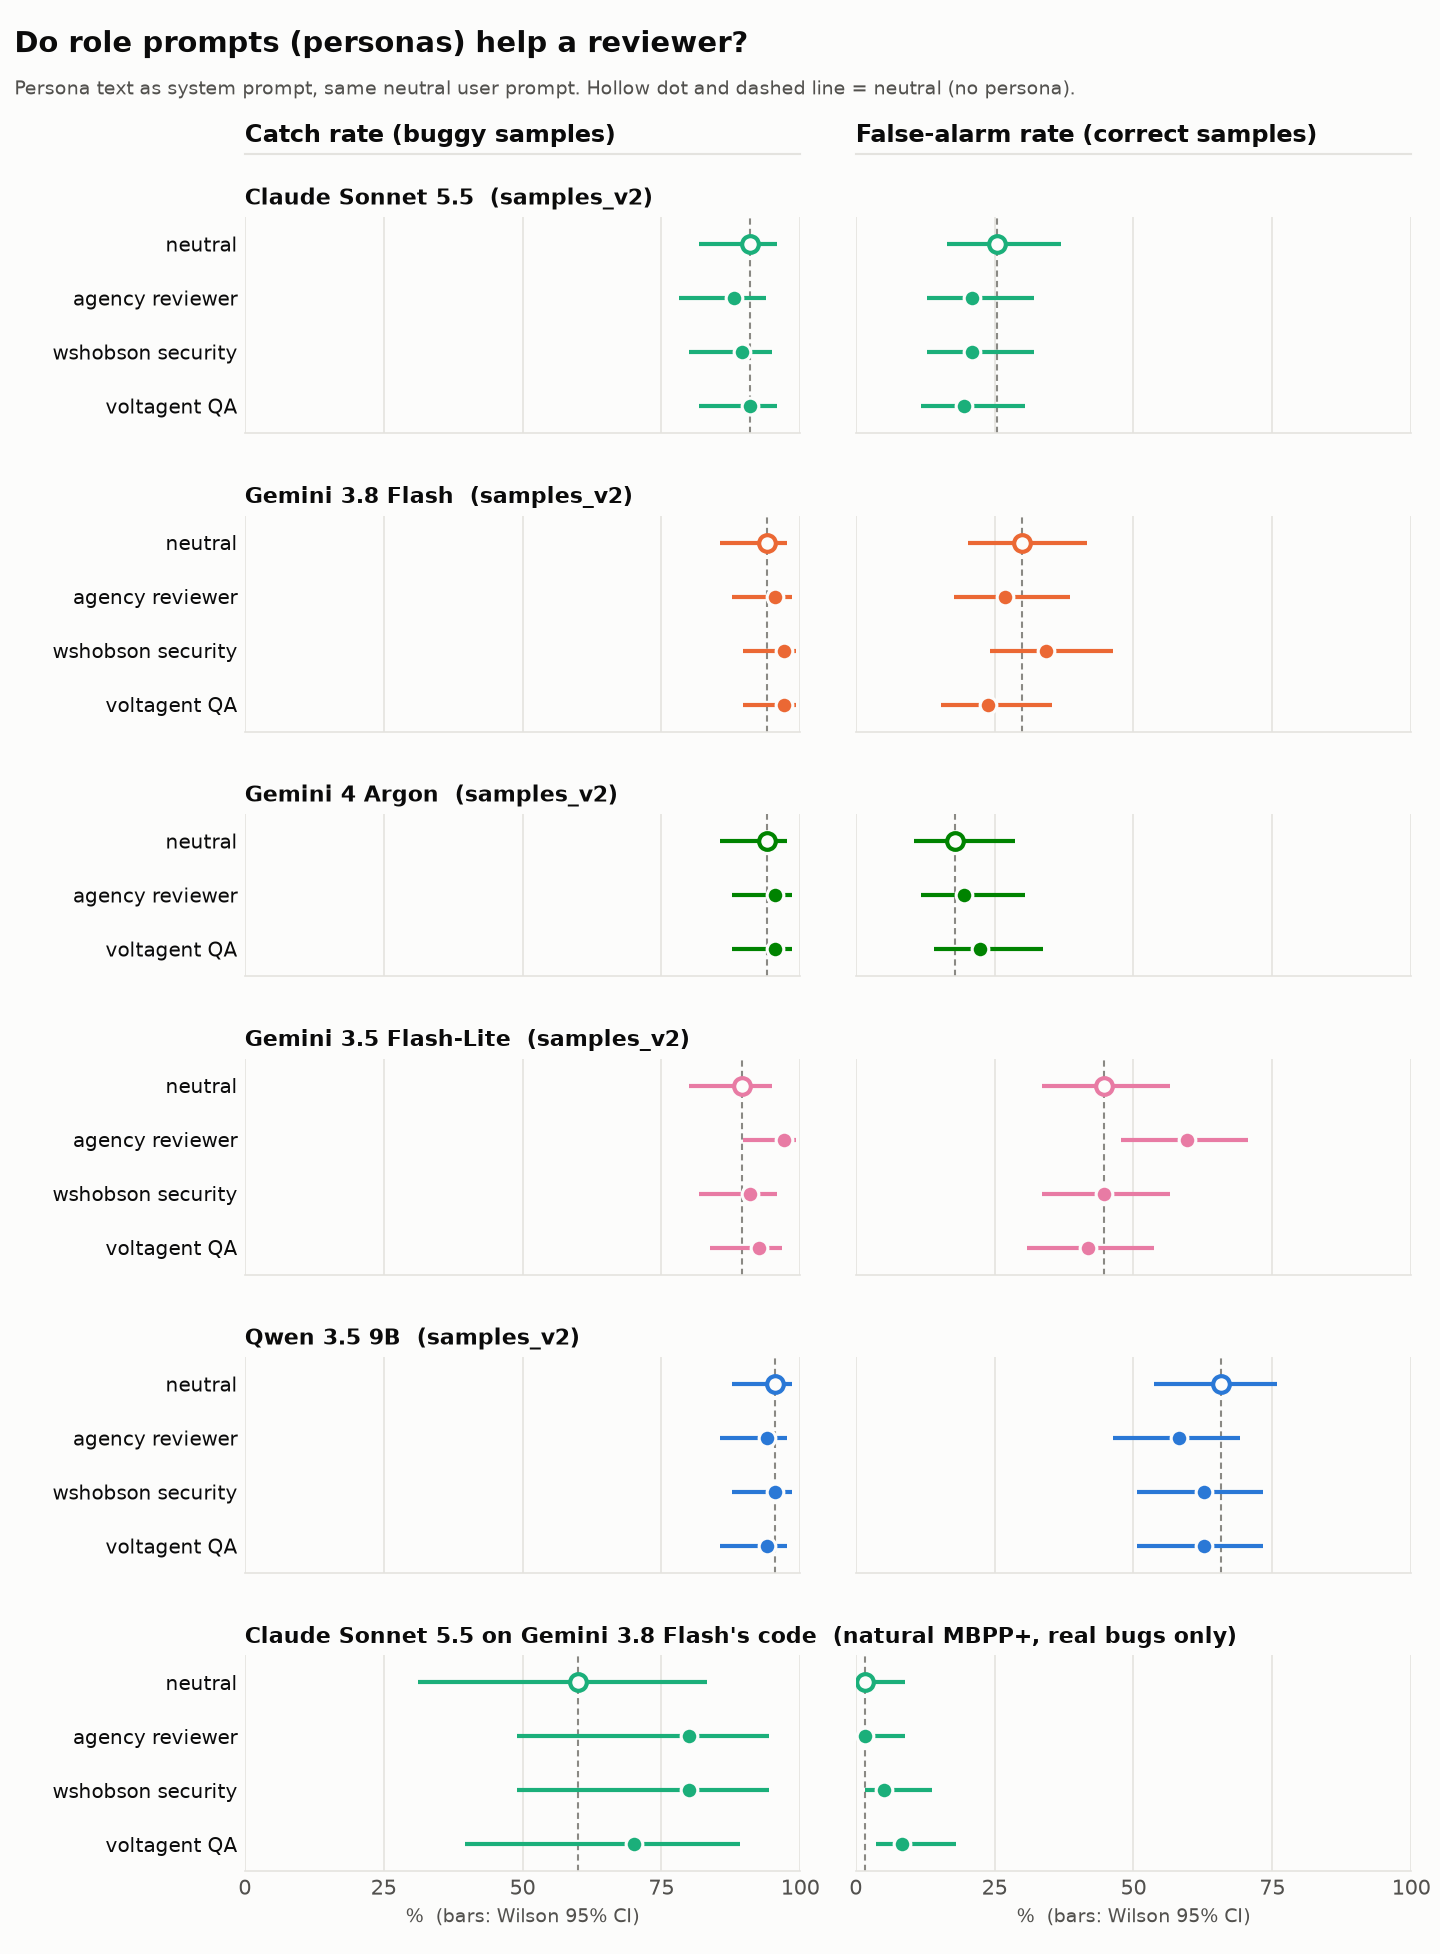
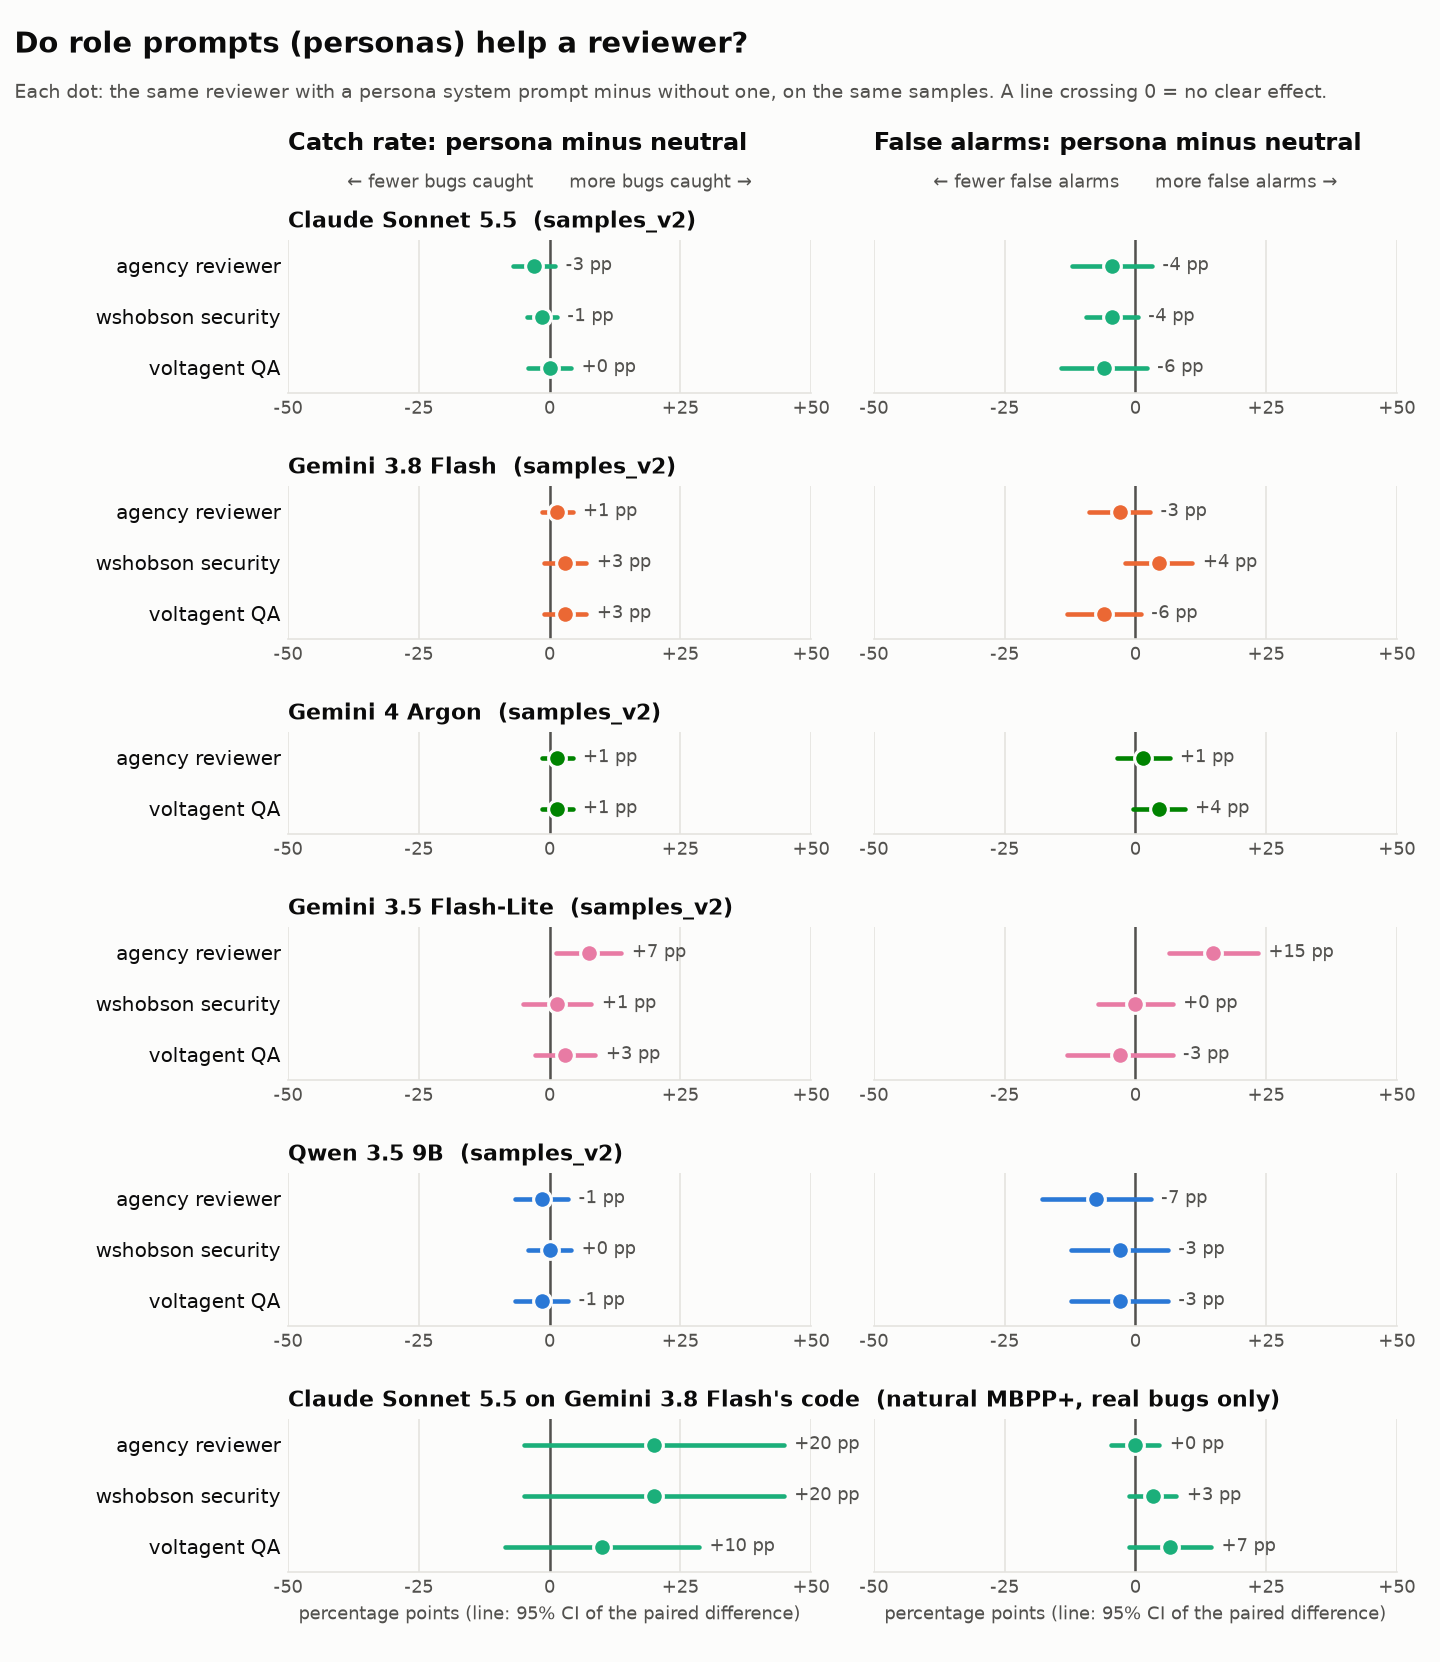
Figures: persona effect as paired difference, dedicated samples_v3 figure, tighter writer matrix

diff --git a/reviewbench/figures.py b/reviewbench/figures.py
@@ -1,4 +1,4 @@
-"""README figures: the writer x reviewer matrix and the persona effect.
+"""README figures: the writer x reviewer matrix, the persona effect and the samples_v3 rates.
 
 Every number comes from logged calls in results/ plus the manual right-reason
 counts in docs/right_reason_counts.json. Missing runs or rows are left out of
@@ -16,7 +16,7 @@ from matplotlib.patches import Patch  # noqa: E402
 
 from reviewbench.config import ROOT  # noqa: E402
 from reviewbench.report import GRID, INK, INK_2, SURFACE, _style, reviewer_color  # noqa: E402
-from reviewbench.scoring import Rate, catch_rate, false_alarm_rate  # noqa: E402
+from reviewbench.scoring import Rate, catch_rate, false_alarm_rate, paired_counts, paired_difference  # noqa: E402
 
 REVIEWERS = ["claude", "gemini", "gemini-argon", "gemini-lite", "ollama"]
 REVIEWER_LABEL = {
@@ -83,8 +83,8 @@ def _yticks(ax, labels: list[str], bold: list[bool]) -> None:
 
 def plot_writer_reviewer(path: Path) -> dict:
     counts = json.loads((ROOT / "docs" / "right_reason_counts.json").read_text(encoding="utf-8"))
-    fig, axes = plt.subplots(2, 2, figsize=(9.6, 7.4), facecolor=SURFACE,
-                             gridspec_kw={"width_ratios": [3.6, 1.6], "hspace": 0.55, "wspace": 0.06})
+    fig, axes = plt.subplots(2, 2, figsize=(9.6, 6.9), facecolor=SURFACE,
+                             gridspec_kw={"width_ratios": [3.6, 1.6], "hspace": 0.42, "wspace": 0.06})
     plotted = {}
     for row, (wkey, wlabel, run, adj_file, real_class) in enumerate(WRITERS):
         calls = load_run(run)
@@ -134,8 +134,9 @@ def plot_writer_reviewer(path: Path) -> dict:
         ax_bug.set_xlim(0, 13.2)  # room for the bar labels; the axis itself stops at 10
         ax_bug.set_xticks(range(0, 11, 2))
         ax_bug.spines["bottom"].set_bounds(0, 10)
-        ax_fa.set_xlim(0, 100)
+        ax_fa.set_xlim(-5, 100)  # a 0% dot is drawn whole, not cut by the axis
         ax_fa.set_xticks([0, 25, 50, 75, 100])
+        ax_fa.spines["bottom"].set_bounds(0, 100)
         ax_bug.set_title(f"Code written by {wlabel}", color=INK, fontsize=11, loc="left", fontweight="bold")
         ax_bug.set_xlabel(f"real bugs flagged (of {n_real or 10})", color=INK_2, fontsize=9)
         ax_fa.set_title(f"False alarms ({n_correct} correct)", color=INK, fontsize=10,
@@ -150,7 +151,7 @@ def plot_writer_reviewer(path: Path) -> dict:
                  fontsize=14, fontweight="bold")
     fig.text(0.01, 0.945, "Natural bugs in MBPP+ solutions, neutral prompt. Real bugs = manually adjudicated "
              "test failures. Shaded row = the reviewer is the writer's model.", color=INK_2, fontsize=9)
-    fig.subplots_adjust(left=0.19, right=0.98, top=0.85, bottom=0.07)
+    fig.subplots_adjust(left=0.19, right=0.98, top=0.84, bottom=0.075)
     fig.savefig(path, dpi=150, facecolor=SURFACE)
     plt.close(fig)
     return plotted
@@ -188,52 +189,118 @@ def _persona_panels() -> list[tuple[str, str, dict[str, list[dict]]]]:
 
 
 def plot_persona_effect(path: Path) -> dict:
-    panels = _persona_panels()
-    ratios = [len(v) for _, _, v in panels]
-    top, bottom, gap, row_h = 1.45, 0.55, 0.55, 0.36  # inches
-    height = top + bottom + row_h * sum(ratios) + gap * (len(panels) - 1)
-    fig, axes = plt.subplots(len(panels), 2, figsize=(9.6, height), facecolor=SURFACE, sharex="col",
-                             squeeze=False, gridspec_kw={"height_ratios": ratios, "wspace": 0.1,
-                                                         "hspace": gap / (row_h * sum(ratios) / len(panels))})
-    fig.subplots_adjust(left=0.17, right=0.98, top=1 - top / height, bottom=bottom / height)
-    plotted = {}
+    """Persona minus neutral, in percentage points, on the same samples (paired difference, 95% CI)."""
+    panels = [(t, r, v) for t, r, v in _persona_panels() if "neutral" in v and len(v) > 1]
     label = dict(VARIANTS)
-    for row, (title, rev, variants) in enumerate(panels):
+    rows = []  # (panel index, reviewer, persona, {metric: (diff, lo, hi, b, c)})
+    for i, (title, rev, variants) in enumerate(panels):
+        for prompt in variants:
+            if prompt == "neutral":
+                continue
+            stats = {}
+            for metric, buggy in (("catch", True), ("false_alarm", False)):
+                n, b, c = paired_counts(variants["neutral"], variants[prompt], buggy)
+                stats[metric] = (*paired_difference(n, b, c), b, c)
+            rows.append((i, rev, prompt, stats))
+    span = max(abs(v) for *_, st in rows for m in st.values() for v in m[:3]) * 100
+    lim = 25 if span < 22 else 50  # wider intervals are cut at the axis edge
+    counts = [sum(1 for r in rows if r[0] == i) for i in range(len(panels))]
+    top, bottom, gap, row_h = 1.6, 0.6, 0.62, 0.34  # inches
+    height = top + bottom + row_h * sum(counts) + gap * (len(panels) - 1)
+    fig, axes = plt.subplots(len(panels), 2, figsize=(9.6, height), facecolor=SURFACE, squeeze=False,
+                             gridspec_kw={"height_ratios": counts, "wspace": 0.12,
+                                          "hspace": gap / (row_h * sum(counts) / len(panels))})
+    fig.subplots_adjust(left=0.2, right=0.97, top=1 - top / height, bottom=bottom / height)
+    plotted = {}
+    for i, (title, rev, variants) in enumerate(panels):
+        mine = [r for r in rows if r[0] == i]
         color = reviewer_color(rev)
-        names = list(variants)
-        for col, metric in enumerate((catch_rate, false_alarm_rate)):
-            ax = axes[row][col]
+        for col, metric in enumerate(("catch", "false_alarm")):
+            ax = axes[i][col]
             _style(ax)
-            base = metric(variants["neutral"]) if "neutral" in variants else None
-            if base and base.n:
-                ax.axvline(base.value * 100, color=MUTED, linewidth=1, linestyle=(0, (3, 2)), zorder=1)
-            for y, prompt in enumerate(names):
-                rate = metric(variants[prompt])
-                if not rate.n:
-                    continue
-                neutral = prompt == "neutral"
-                ax.errorbar(rate.value * 100, y, xerr=_ci_err(rate), fmt="o", color=color, markersize=8,
-                            elinewidth=2, capsize=0, zorder=3, markeredgewidth=2 if neutral else 1.5,
-                            markerfacecolor=SURFACE if neutral else color,
-                            markeredgecolor=color if neutral else SURFACE)
-                plotted.setdefault((title, prompt), {})[metric.__name__] = f"{rate.k}/{rate.n}"
-            ax.set_ylim(len(names) - 0.5, -0.5)
-            ax.set_xlim(0, 100)
-            ax.set_xticks([0, 25, 50, 75, 100])
+            ax.axvline(0, color=INK_2, linewidth=1.2, zorder=1)
+            for y, (_, _, prompt, st) in enumerate(mine):
+                diff, lo, hi, b, c = st[metric]
+                lo, hi = max(lo, -lim / 100), min(hi, lim / 100)
+                ax.plot([lo * 100, hi * 100], [y, y], color=color, linewidth=2.2, solid_capstyle="round",
+                        zorder=2)
+                ax.plot(diff * 100, y, "o", color=color, markersize=8.5, markeredgecolor=SURFACE,
+                        markeredgewidth=1.5, zorder=3)
+                ax.text(hi * 100 + lim * 0.04, y, f"{diff * 100:+.0f} pp", va="center", ha="left",
+                        color=INK_2, fontsize=8.5)
+                plotted[(title, prompt, metric)] = f"+{c} / -{b}"
+            ax.set_ylim(len(mine) - 0.5, -0.5)
+            ax.set_xlim(-lim, lim)
+            ticks = [-lim, -lim // 2, 0, lim // 2, lim]
+            ax.set_xticks(ticks, [f"{t:+d}" if t else "0" for t in ticks])
+            ax.tick_params(labelsize=8.5)
             if col == 0:
-                ax.set_yticks(range(len(names)), [label[p] for p in names], color=INK, fontsize=9.5)
+                ax.set_yticks(range(len(mine)), [label[r[2]] for r in mine], color=INK, fontsize=9.5)
                 ax.set_title(title, color=INK, fontsize=10.5, loc="left", fontweight="bold")
             else:
-                ax.set_yticks(range(len(names)), [""] * len(names))
-    for col, head in enumerate(("Catch rate (buggy samples)", "False-alarm rate (correct samples)")):
+                ax.set_yticks(range(len(mine)), [""] * len(mine))
+    heads = (("Catch rate: persona minus neutral", "← fewer bugs caught      more bugs caught →"),
+             ("False alarms: persona minus neutral", "← fewer false alarms      more false alarms →"))
+    for col, (head, hint) in enumerate(heads):
         box = axes[0][col].get_position()
-        fig.text(box.x0, 1 - 0.95 / height, head, color=INK, fontsize=11.5, ha="left", fontweight="bold")
-        fig.add_artist(plt.Line2D([box.x0, box.x1], [1 - 1.03 / height] * 2, color=GRID, linewidth=1))
-        axes[-1][col].set_xlabel("%  (bars: Wilson 95% CI)", color=INK_2, fontsize=9)
+        fig.text(box.x0, 1 - 1.0 / height, head, color=INK, fontsize=11.5, ha="left", fontweight="bold")
+        fig.text((box.x0 + box.x1) / 2, 1 - 1.25 / height, hint, color=INK_2, fontsize=8.5, ha="center")
+        axes[-1][col].set_xlabel("percentage points (line: 95% CI of the paired difference)", color=INK_2,
+                                 fontsize=8.5)
     fig.text(0.01, 1 - 0.3 / height, "Do role prompts (personas) help a reviewer?", ha="left", va="center",
              color=INK, fontsize=14, fontweight="bold")
-    fig.text(0.01, 1 - 0.6 / height, "Persona text as system prompt, same neutral user prompt. Hollow dot and "
-             "dashed line = neutral (no persona).", va="center", color=INK_2, fontsize=9)
+    fig.text(0.01, 1 - 0.62 / height, "Each dot: the same reviewer with a persona system prompt minus without "
+             "one, on the same samples. A line crossing 0 = no clear effect.", va="center", color=INK_2,
+             fontsize=9)
+    fig.savefig(path, dpi=150, facecolor=SURFACE)
+    plt.close(fig)
+    return plotted
+
+
+# --- figure 3: samples_v3 rates --------------------------------------------------------------
+
+
+def plot_v3_rates(path: Path) -> dict:
+    calls = load_run("samples-v3")
+    stats = []
+    for rev in REVIEWERS:
+        group = select(calls, rev, "neutral")
+        if group:
+            stats.append((rev, catch_rate(group), false_alarm_rate(group)))
+    stats.sort(key=lambda row: row[2].value)
+    height = 1.6 + 0.52 * len(stats)
+    fig, (ax_c, ax_f) = plt.subplots(1, 2, figsize=(9.6, height), facecolor=SURFACE,
+                                     gridspec_kw={"width_ratios": [1.3, 2.7], "wspace": 0.2})
+    plotted = {}
+    for ax, idx, lim, ticks in ((ax_c, 1, (85, 101), [85, 90, 95, 100]),
+                                (ax_f, 2, (-3, 103), [0, 25, 50, 75, 100])):
+        _style(ax)
+        for y, row in enumerate(stats):
+            rate, color = row[idx], reviewer_color(row[0])
+            lo, hi = rate.ci
+            ax.plot([lo * 100, hi * 100], [y, y], color=color, linewidth=2.2, solid_capstyle="round", zorder=2)
+            ax.plot(rate.value * 100, y, "o", color=color, markersize=9, markeredgecolor=SURFACE,
+                    markeredgewidth=1.5, zorder=3)
+            if idx == 2:
+                ax.text(hi * 100 + 2, y, f"{rate.value * 100:.0f}%  ({rate.k}/{rate.n})", va="center",
+                        color=INK_2, fontsize=8.5)
+            plotted[(row[0], idx)] = f"{rate.k}/{rate.n}"
+        ax.set_xlim(*lim)
+        ax.set_xticks(ticks)
+        ax.spines["bottom"].set_bounds(ticks[0], ticks[-1])
+        ax.set_ylim(len(stats) - 0.5, -0.5)
+        ax.tick_params(labelsize=8.5)
+        ax.set_xlabel("%  (line: Wilson 95% CI)", color=INK_2, fontsize=8.5)
+    ax_c.set_yticks(range(len(stats)), [REVIEWER_LABEL[r[0]] for r in stats], color=INK, fontsize=9.5)
+    ax_f.set_yticks(range(len(stats)), [""] * len(stats))
+    ax_c.set_title("Catch rate (axis from 85%)", color=INK, fontsize=10.5, loc="left", fontweight="bold")
+    ax_f.set_title("False-alarm rate on correct code", color=INK, fontsize=10.5, loc="left", fontweight="bold")
+    n = stats[0][1].n if stats else 0
+    fig.text(0.01, 1 - 0.28 / height, "Harder code (BigCodeBench): bugs are still caught, false alarms "
+             "separate the reviewers", ha="left", va="center", color=INK, fontsize=12.5, fontweight="bold")
+    fig.text(0.01, 1 - 0.58 / height, f"samples_v3: {n} injected bugs + {n} correct solutions, neutral prompt. "
+             "Sorted by false-alarm rate.", color=INK_2, fontsize=9, va="center")
+    fig.subplots_adjust(left=0.19, right=0.97, top=1 - 1.05 / height, bottom=0.55 / height)
     fig.savefig(path, dpi=150, facecolor=SURFACE)
     plt.close(fig)
     return plotted
@@ -241,7 +308,9 @@ def plot_persona_effect(path: Path) -> dict:
 
 def build_figures(out_dir: Path) -> list[Path]:
     out_dir.mkdir(parents=True, exist_ok=True)
-    paths = [out_dir / "writer_reviewer_matrix.png", out_dir / "persona_effect.png"]
+    paths = [out_dir / "writer_reviewer_matrix.png", out_dir / "persona_effect.png",
+             out_dir / "samples_v3_rates.png"]
     plot_writer_reviewer(paths[0])
     plot_persona_effect(paths[1])
+    plot_v3_rates(paths[2])
     return paths

diff --git a/reviewbench/scoring.py b/reviewbench/scoring.py
@@ -151,6 +151,19 @@ def paired_counts(a: list[dict], b: list[dict], buggy: bool) -> tuple[int, int, 
     return len(common), only_a, only_b
 
 
+def paired_difference(n: int, b: int, c: int, z: float = Z95) -> tuple[float, float, float]:
+    """Paired difference of two proportions on the same n samples, B minus A, with a Wald 95% CI.
+
+    b = samples where only A has the event, c = only B (as returned by paired_counts).
+    Returns (difference, low, high) as fractions, clipped to [-1, 1].
+    """
+    if n == 0:
+        return 0.0, 0.0, 0.0
+    diff = (c - b) / n
+    se = math.sqrt(max(0.0, b + c - (c - b) ** 2 / n)) / n
+    return diff, max(-1.0, diff - z * se), min(1.0, diff + z * se)
+
+
 def by_bug_type(calls: list[dict]) -> dict[str, dict]:
     """Catch rate and localization per bug type (false alarms have no bug type)."""
     out = {}

diff --git a/tests/test_scoring.py b/tests/test_scoring.py
@@ -141,3 +141,14 @@ def test_run_agreement_counts_flips():
     r = run_agreement(a, b)
     assert r["n"] == 4  # s5 dropped: first run's call failed
     assert (r["agreement"].k, r["bug_only_first"], r["bug_only_second"]) == (2, 1, 1)
+
+
+def test_paired_difference_is_b_minus_a_with_wald_ci():
+    from reviewbench.scoring import paired_difference
+    assert paired_difference(0, 0, 0) == (0.0, 0.0, 0.0)
+    assert paired_difference(10, 0, 0) == (0.0, 0.0, 0.0)
+    diff, lo, hi = paired_difference(100, 5, 15)
+    assert diff == pytest.approx(0.10)
+    assert lo == pytest.approx(0.10 - 1.959964 * 19 ** 0.5 / 100, abs=1e-4)
+    assert hi == pytest.approx(0.10 + 1.959964 * 19 ** 0.5 / 100, abs=1e-4)
+    assert paired_difference(4, 0, 4) == (1.0, 1.0, 1.0)

diff --git a/reviewbench/__main__.py b/reviewbench/__main__.py
@@ -239,7 +239,7 @@ def report(
 def figures(
     out: Path = typer.Option(ROOT / "docs" / "img", help="Output dir for the README figures."),
 ) -> None:
-    """README figures (writer x reviewer matrix, persona effect) from results/ and docs/; rerun after new runs."""
+    """README figures (writer x reviewer matrix, persona effect, samples_v3 rates) from results/ and docs/; rerun after new runs."""
     from reviewbench.figures import build_figures
 
     for path in build_figures(out):

diff --git a/README.md b/README.md
@@ -166,7 +166,7 @@ python -m reviewbench run --reviewers ollama,gemini,claude --run-id my-run
 python -m reviewbench run --reviewers claude --dataset data/natural_plus_v1.jsonl --run-id natural
 python -m reviewbench report results/my-run              # terminal table + report.md + plots
 python -m reviewbench report results/natural-mbpp-v1 --adjudication docs/natural_mbpp_v1_adjudication.json
-python -m reviewbench figures                            # README figures: writer x reviewer, persona effect
+python -m reviewbench figures                            # README figures: writer x reviewer, persona effect, samples_v3
 python -m reviewbench compare-runs results/samples-v2 results/samples-v2-repeat   # repeatability
 ```
 
@@ -229,7 +229,7 @@ reviewbench/
   runner.py     resume, retries, per-reviewer concurrency, budget cap, JSONL logging
   scoring.py    metrics, Wilson CI, McNemar, Holm
   report.py     report.md + plots
-  figures.py    cross-run README figures (writer x reviewer, persona effect)
+  figures.py    cross-run README figures (writer x reviewer, persona effect, samples_v3)
   review.py     review command: rank reviewers by benchmark F1, pick the best available
 prompts/        neutral_v1, adversarial_v1, edgecases_v1, writer_v1, writer_mbpp_v1
   personas/     7 persona system prompts (MIT, sources in each file header) + LICENSES.md

diff --git a/CLAUDE.md b/CLAUDE.md
@@ -108,7 +108,7 @@ reviewbench/
   runner.py        # concurrency, retries, cache, JSONL logging
   scoring.py       # metrics
   report.py        # tables, report.md, plots
-  figures.py       # cross-run README figures (writer x reviewer, persona effect)
+  figures.py       # cross-run README figures (writer x reviewer, persona effect, samples_v3)
   writer.py        # natural bugs: Claude or Gemini as writer
   review.py        # `review` command
 prompts/neutral_v1.txt
